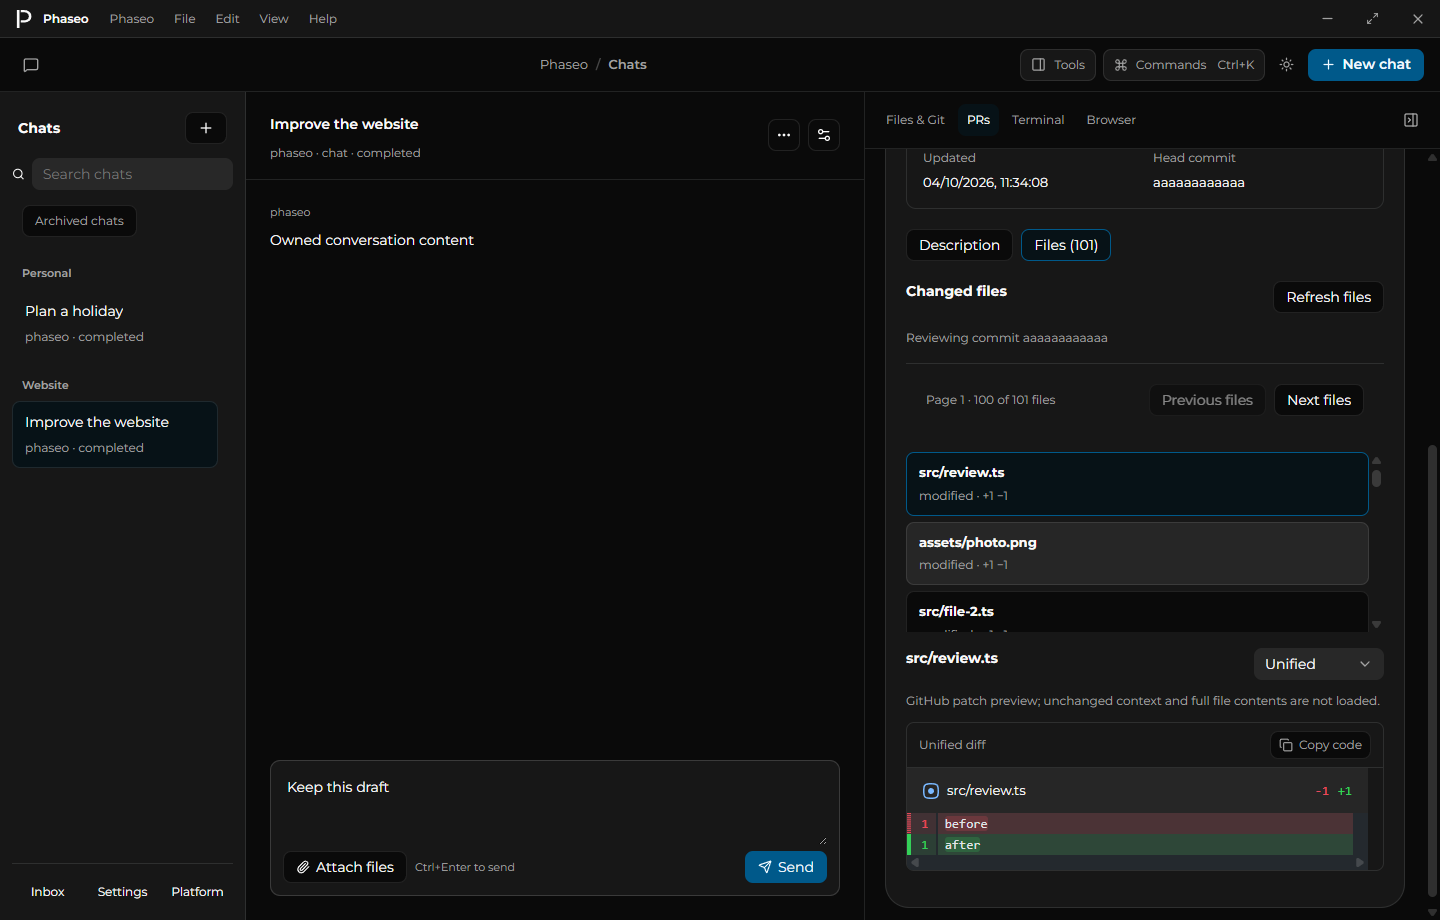
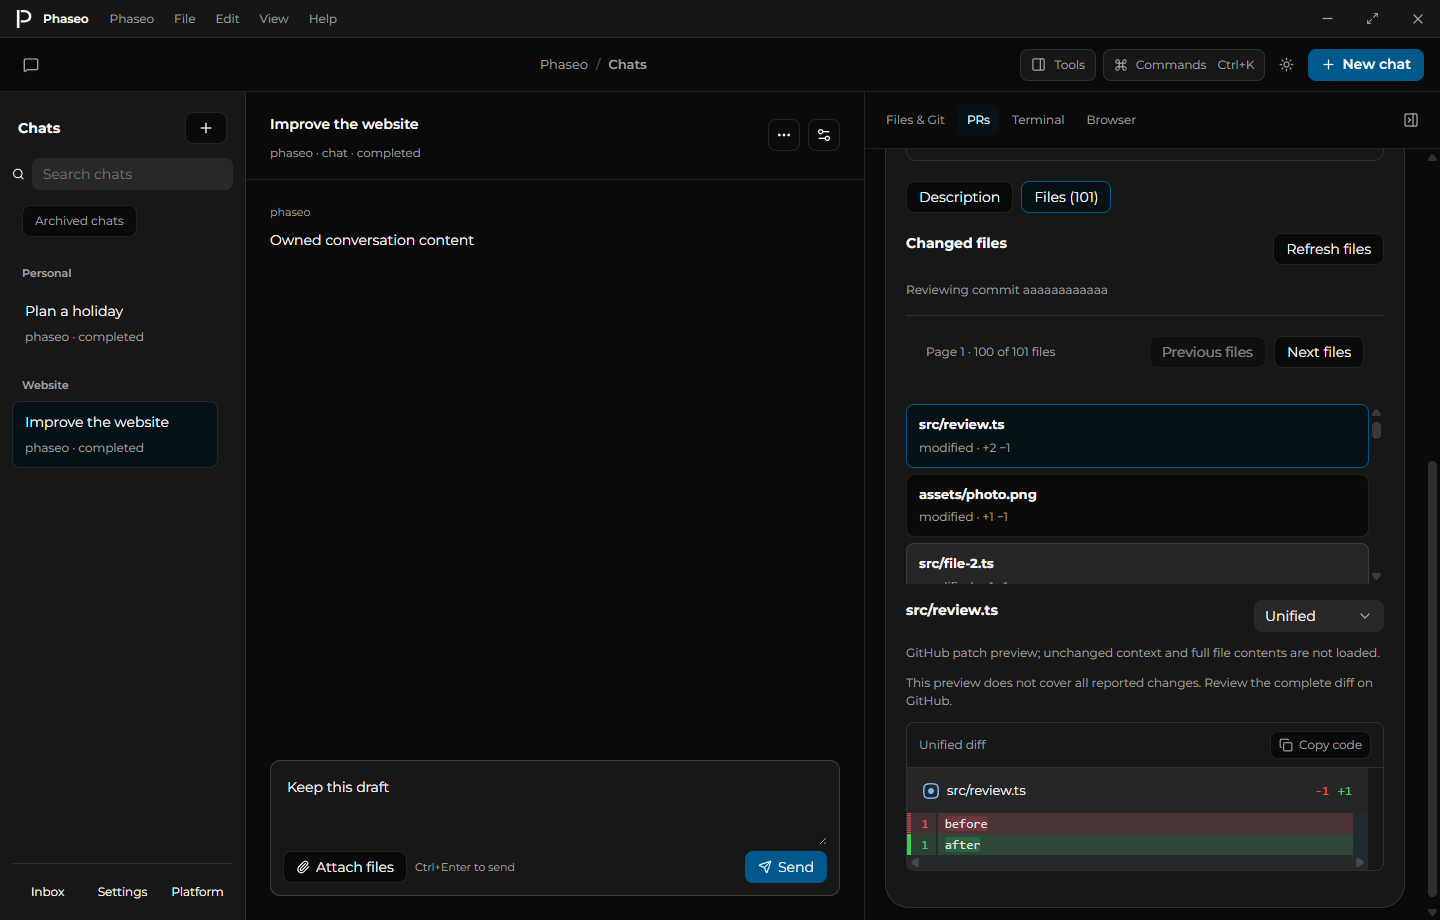
fix(desktop): flag incomplete pull request patch previews

diff --git a/apps/desktop/src/renderer/views/PullRequestFiles.tsx b/apps/desktop/src/renderer/views/PullRequestFiles.tsx
@@ -3,11 +3,12 @@ import type { PullRequestDetails } from "../../shared/pullRequests";
 import type { PullRequestFilesPage } from "../../shared/pullRequestFiles";
 import { DiffView } from "../components/DiffView";
 import { pullRequestPatch } from "../lib/pullRequestPatch";
+import { pullRequestPatchCoversChanges } from "../lib/pullRequestPatchCoverage";
 export function PullRequestFiles({ projectId, request }: { projectId: string; request: PullRequestDetails }) {
  const api=window.phaseoDesktop?.workspace;const [page,setPage]=useState(1),[attempt,setAttempt]=useState(0);const [result,setResult]=useState<PullRequestFilesPage>();const [loading,setLoading]=useState(true),[error,setError]=useState("");const [filename,setFilename]=useState("");const [layout,setLayout]=useState<"unified"|"split">("unified");const pending=useRef(true);const root=useRef<HTMLElement>(null);
  useEffect(()=>{let active=true;pending.current=true;setLoading(true);setError("");if(!api){pending.current=false;setLoading(false);setError("Open the desktop app to load changed files.");return;}void api.pullRequestFiles(projectId,{number:request.number,page,headOid:request.headOid,baseOid:request.baseOid}).then(value=>{if(active){setResult(value);setFilename(current=>value.files.some(file=>file.filename===current)?current:value.files[0]?.filename??"");}},reason=>{if(active)setError((reason instanceof Error?reason.message:String(reason)).replace(/^Error invoking remote method '[^']+': (?:Error: )?/,""));}).finally(()=>{if(active){pending.current=false;setLoading(false);}});return()=>{active=false;};},[api,projectId,request.number,request.headOid,request.baseOid,page,attempt]);
  useEffect(()=>{if(!result||loading)return;const frame=requestAnimationFrame(()=>root.current?.scrollIntoView({block:"start"}));return()=>cancelAnimationFrame(frame);},[result,loading]);
  function load(next:number){if(pending.current)return;pending.current=true;setLoading(true);setPage(next);setAttempt(value=>value+1);}
  const file=result?.files.find(value=>value.filename===filename);const patch=file?pullRequestPatch(file):undefined;
- return <section ref={root} className="proposal-files" aria-label="Changed files" aria-busy={loading}><div className="proposal-detail-actions"><h3>Changed files</h3><button type="button" disabled={loading||!api} onClick={()=>load(page)}>{loading?"Loading…":error?"Retry files":"Refresh files"}</button></div><p className="proposal-file-revision">Reviewing commit {request.headOid.slice(0,12)}</p>{loading&&<p role="status">Loading changed files…</p>}{error&&<p role="alert" className="proposal-error">{error}</p>}{result&&<><nav className="proposal-pagination" aria-label="Changed-file pages"><span>Page {result.page} · {result.files.length} of {result.total} files</span><button type="button" disabled={loading||result.page<=1} onClick={()=>load(result.page-1)}>Previous files</button><button type="button" disabled={loading||!result.hasNext} onClick={()=>load(result.page+1)}>Next files</button></nav>{result.limitReached&&<p role="status">GitHub exposes at most 3,000 files through this API. Additional files are unavailable here.</p>}<div className="proposal-file-list" aria-label="Changed-file list">{result.files.map(value=><button type="button" key={value.filename} aria-pressed={filename===value.filename} onClick={()=>setFilename(value.filename)}><strong>{value.filename}</strong><span>{value.status} · +{value.additions} −{value.deletions}</span>{value.previousFilename&&<small>From {value.previousFilename}</small>}</button>)}</div>{!result.files.length&&<p>No changed files.</p>}{file&&<section className="proposal-file-preview" aria-label="GitHub patch preview"><div className="proposal-detail-actions"><h3>{file.filename}</h3>{patch&&<select aria-label="PR diff layout" value={layout} onChange={event=>setLayout(event.target.value as "unified"|"split")}><option value="unified">Unified</option><option value="split">Side by side</option></select>}</div><p>GitHub patch preview; unchanged context and full file contents are not loaded.</p>{patch?<DiffView patch={patch} copyText={file.patch} layout={layout}/>:<p>{file.preview==="too-large"?"Patch exceeds the preview limit.":"GitHub did not provide a text patch for this file."}</p>}</section>}</>}</section>;
+ return <section ref={root} className="proposal-files" aria-label="Changed files" aria-busy={loading}><div className="proposal-detail-actions"><h3>Changed files</h3><button type="button" disabled={loading||!api} onClick={()=>load(page)}>{loading?"Loading…":error?"Retry files":"Refresh files"}</button></div><p className="proposal-file-revision">Reviewing commit {request.headOid.slice(0,12)}</p>{loading&&<p role="status">Loading changed files…</p>}{error&&<p role="alert" className="proposal-error">{error}</p>}{result&&<><nav className="proposal-pagination" aria-label="Changed-file pages"><span>Page {result.page} · {result.files.length} of {result.total} files</span><button type="button" disabled={loading||result.page<=1} onClick={()=>load(result.page-1)}>Previous files</button><button type="button" disabled={loading||!result.hasNext} onClick={()=>load(result.page+1)}>Next files</button></nav>{result.limitReached&&<p role="status">GitHub exposes at most 3,000 files through this API. Additional files are unavailable here.</p>}<div className="proposal-file-list" aria-label="Changed-file list">{result.files.map(value=><button type="button" key={value.filename} aria-pressed={filename===value.filename} onClick={()=>setFilename(value.filename)}><strong>{value.filename}</strong><span>{value.status} · +{value.additions} −{value.deletions}</span>{value.previousFilename&&<small>From {value.previousFilename}</small>}</button>)}</div>{!result.files.length&&<p>No changed files.</p>}{file&&<section className="proposal-file-preview" aria-label="GitHub patch preview"><div className="proposal-detail-actions"><h3>{file.filename}</h3>{patch&&<select aria-label="PR diff layout" value={layout} onChange={event=>setLayout(event.target.value as "unified"|"split")}><option value="unified">Unified</option><option value="split">Side by side</option></select>}</div><p>GitHub patch preview; unchanged context and full file contents are not loaded.</p>{patch&&!pullRequestPatchCoversChanges(file)&&<p role="status">This preview does not cover all reported changes. Review the complete diff on GitHub.</p>}{patch?<DiffView patch={patch} copyText={file.patch} layout={layout}/>:<p>{file.preview==="too-large"?"Patch exceeds the preview limit.":"GitHub did not provide a text patch for this file."}</p>}</section>}</>}</section>;
 }

diff --git a/apps/desktop/src/renderer/lib/pullRequestPatchCoverage.ts b/apps/desktop/src/renderer/lib/pullRequestPatchCoverage.ts
@@ -1,0 +1,29 @@
+import type { PullRequestFile } from "../../shared/pullRequestFiles";
+
+/** Checks changed-line coverage only; this does not establish full file/context availability. */
+export function pullRequestPatchCoversChanges(file: PullRequestFile): boolean {
+ if (!file.patch) return false;
+ let additions = 0, deletions = 0, oldRemaining = 0, newRemaining = 0, hasHunk = false;
+ for (const line of file.patch.split("\n")) {
+  const hunk = /^@@ -\d+(?:,(\d+))? \+\d+(?:,(\d+))? @@(?:.*)$/.exec(line);
+  if (hunk) {
+   if (oldRemaining || newRemaining) return false;
+   oldRemaining = hunk[1] === undefined ? 1 : Number(hunk[1]);
+   newRemaining = hunk[2] === undefined ? 1 : Number(hunk[2]);
+   if (!Number.isSafeInteger(oldRemaining) || !Number.isSafeInteger(newRemaining)) return false;
+   hasHunk = true;
+  } else if (line === "\\ No newline at end of file") {
+   if (!hasHunk) return false;
+  } else if (line === "" && oldRemaining === 0 && newRemaining === 0) {
+   // A trailing line terminator is not a context line.
+  } else {
+   if (!hasHunk) return false;
+   if (line.startsWith("+")) { additions++; newRemaining--; }
+   else if (line.startsWith("-")) { deletions++; oldRemaining--; }
+   else if (line.startsWith(" ")) { oldRemaining--; newRemaining--; }
+   else return false;
+   if (oldRemaining < 0 || newRemaining < 0) return false;
+  }
+ }
+ return hasHunk && oldRemaining === 0 && newRemaining === 0 && additions === file.additions && deletions === file.deletions;
+}

diff --git a/apps/desktop/src/renderer/lib/pullRequestPatchCoverage.test.ts b/apps/desktop/src/renderer/lib/pullRequestPatchCoverage.test.ts
@@ -1,0 +1,9 @@
+import { describe, expect, it } from "vitest";
+import { pullRequestPatchCoversChanges } from "./pullRequestPatchCoverage";
+const file = {filename:"file.ts",status:"modified",blobOid:"a".repeat(40),preview:"available" as const,additions:1,deletions:1,patch:"@@ -1 +1 @@\n-before\n+after"};
+describe("PR changed-line coverage",()=>{
+ it("accepts valid changes and unchanged context across multiple hunks",()=>{expect(pullRequestPatchCoversChanges({...file,additions:2,patch:"@@ -1,2 +1,2 @@ heading\n context\n-before\n+after\n@@ -9,0 +10 @@\n+added\n"})).toBe(true);});
+ it("recognizes absent sides and no-final-newline markers",()=>{expect(pullRequestPatchCoversChanges({...file,deletions:0,patch:"@@ -0,0 +1 @@\n+added\n\\ No newline at end of file"})).toBe(true);expect(pullRequestPatchCoversChanges({...file,additions:0,patch:"@@ -1 +0,0 @@\n-removed"})).toBe(true);});
+ it("rejects missing changes even when the returned hunk is internally valid",()=>{expect(pullRequestPatchCoversChanges({...file,additions:2})).toBe(false);});
+ it.each(["@@ -1,2 +1,2 @@\n-before\n+after","@@ -1 +1 @@\n-before\n+after\n+extra","@@ -1 +1 @@\n-before\n@@ -2 +2 @@\n-before\n+after","malformed","@@ -1,9007199254740992 +1 @@\n-before\n+after",undefined])("rejects truncated or unsupported hunks: %s",patch=>{expect(pullRequestPatchCoversChanges({...file,patch})).toBe(false);});
+});

diff --git a/apps/desktop/WORKSPACE-PLAN.md b/apps/desktop/WORKSPACE-PLAN.md
@@ -390,3 +390,7 @@ Reproduced a rotate/close/reopen race through public controls: the native tablet
 ### Paginated PR files and patch previews
 
 Added project/revision-bound file pages through the native GitHub CLI. Validated head/base identity before and after reads, rejected malformed/incomplete pages, bounded rows to one hundred, projected patch text in the CLI and retained omitted/oversized patch metadata. The right-panel Files tab uses the existing unified/split viewer, preserves failed-page rows for Retry, identifies the reviewed commit and pauses automatic detail replacement during review. Native/parser/presentation cases bring the suite to 560 tests / 79 files; source/archive UI checks write 26 captures. Installed-CLI production read traverses all 299 PR #2702 files over three pages. GitHub API’s 3,000-file ceiling is explicit. Full immutable blobs/context, complete-patch verification, viewed marks, review threads/actions, merge and full parity remain open.
+
+### PR patch changed-line coverage
+
+Added conservative validation of every returned hunk against its old/new line counts and the API file addition/deletion totals. Incomplete or unsupported previews remain readable with an explicit warning to review the complete diff on GitHub. Nine cases cover multi-hunk context, additions/removals, missing final newlines, truncated hunks, extra lines, malformed input and unsafe counts. Current suite: 569 tests / 80 files. Native shell checks verify incomplete warnings and their removal for a different fully covered file. This establishes changed-line coverage only; complete file contents, immutable context and full parity remain open.

diff --git a/apps/desktop/docs/chats-and-tools.md b/apps/desktop/docs/chats-and-tools.md
@@ -67,3 +67,5 @@ The native adapter validates the request, checks head/base commit identities bef
 Twenty-four new native/parser cases and three patch-presentation cases bring the desktop suite to 560 tests across 79 files. Source/archive workflows verify initial failure/retry, 100-row bounds, failed-page retention/retry, omitted patches and both layouts. The production adapter reads all 299 files in PR #2702 across three pages without changing the temporary repository. Review threads/actions, viewed-file marks and merge remain open.
 
 ![PR files](screenshots/pull-request-files.png)
+
+Patch previews now check hunk line counts and reported addition/deletion totals. An incomplete or unsupported patch shows a warning while remaining readable. Passing this check proves changed-line coverage only, not full file contents or unchanged context. Nine additional tests bring the suite to 569 tests across 80 files.
